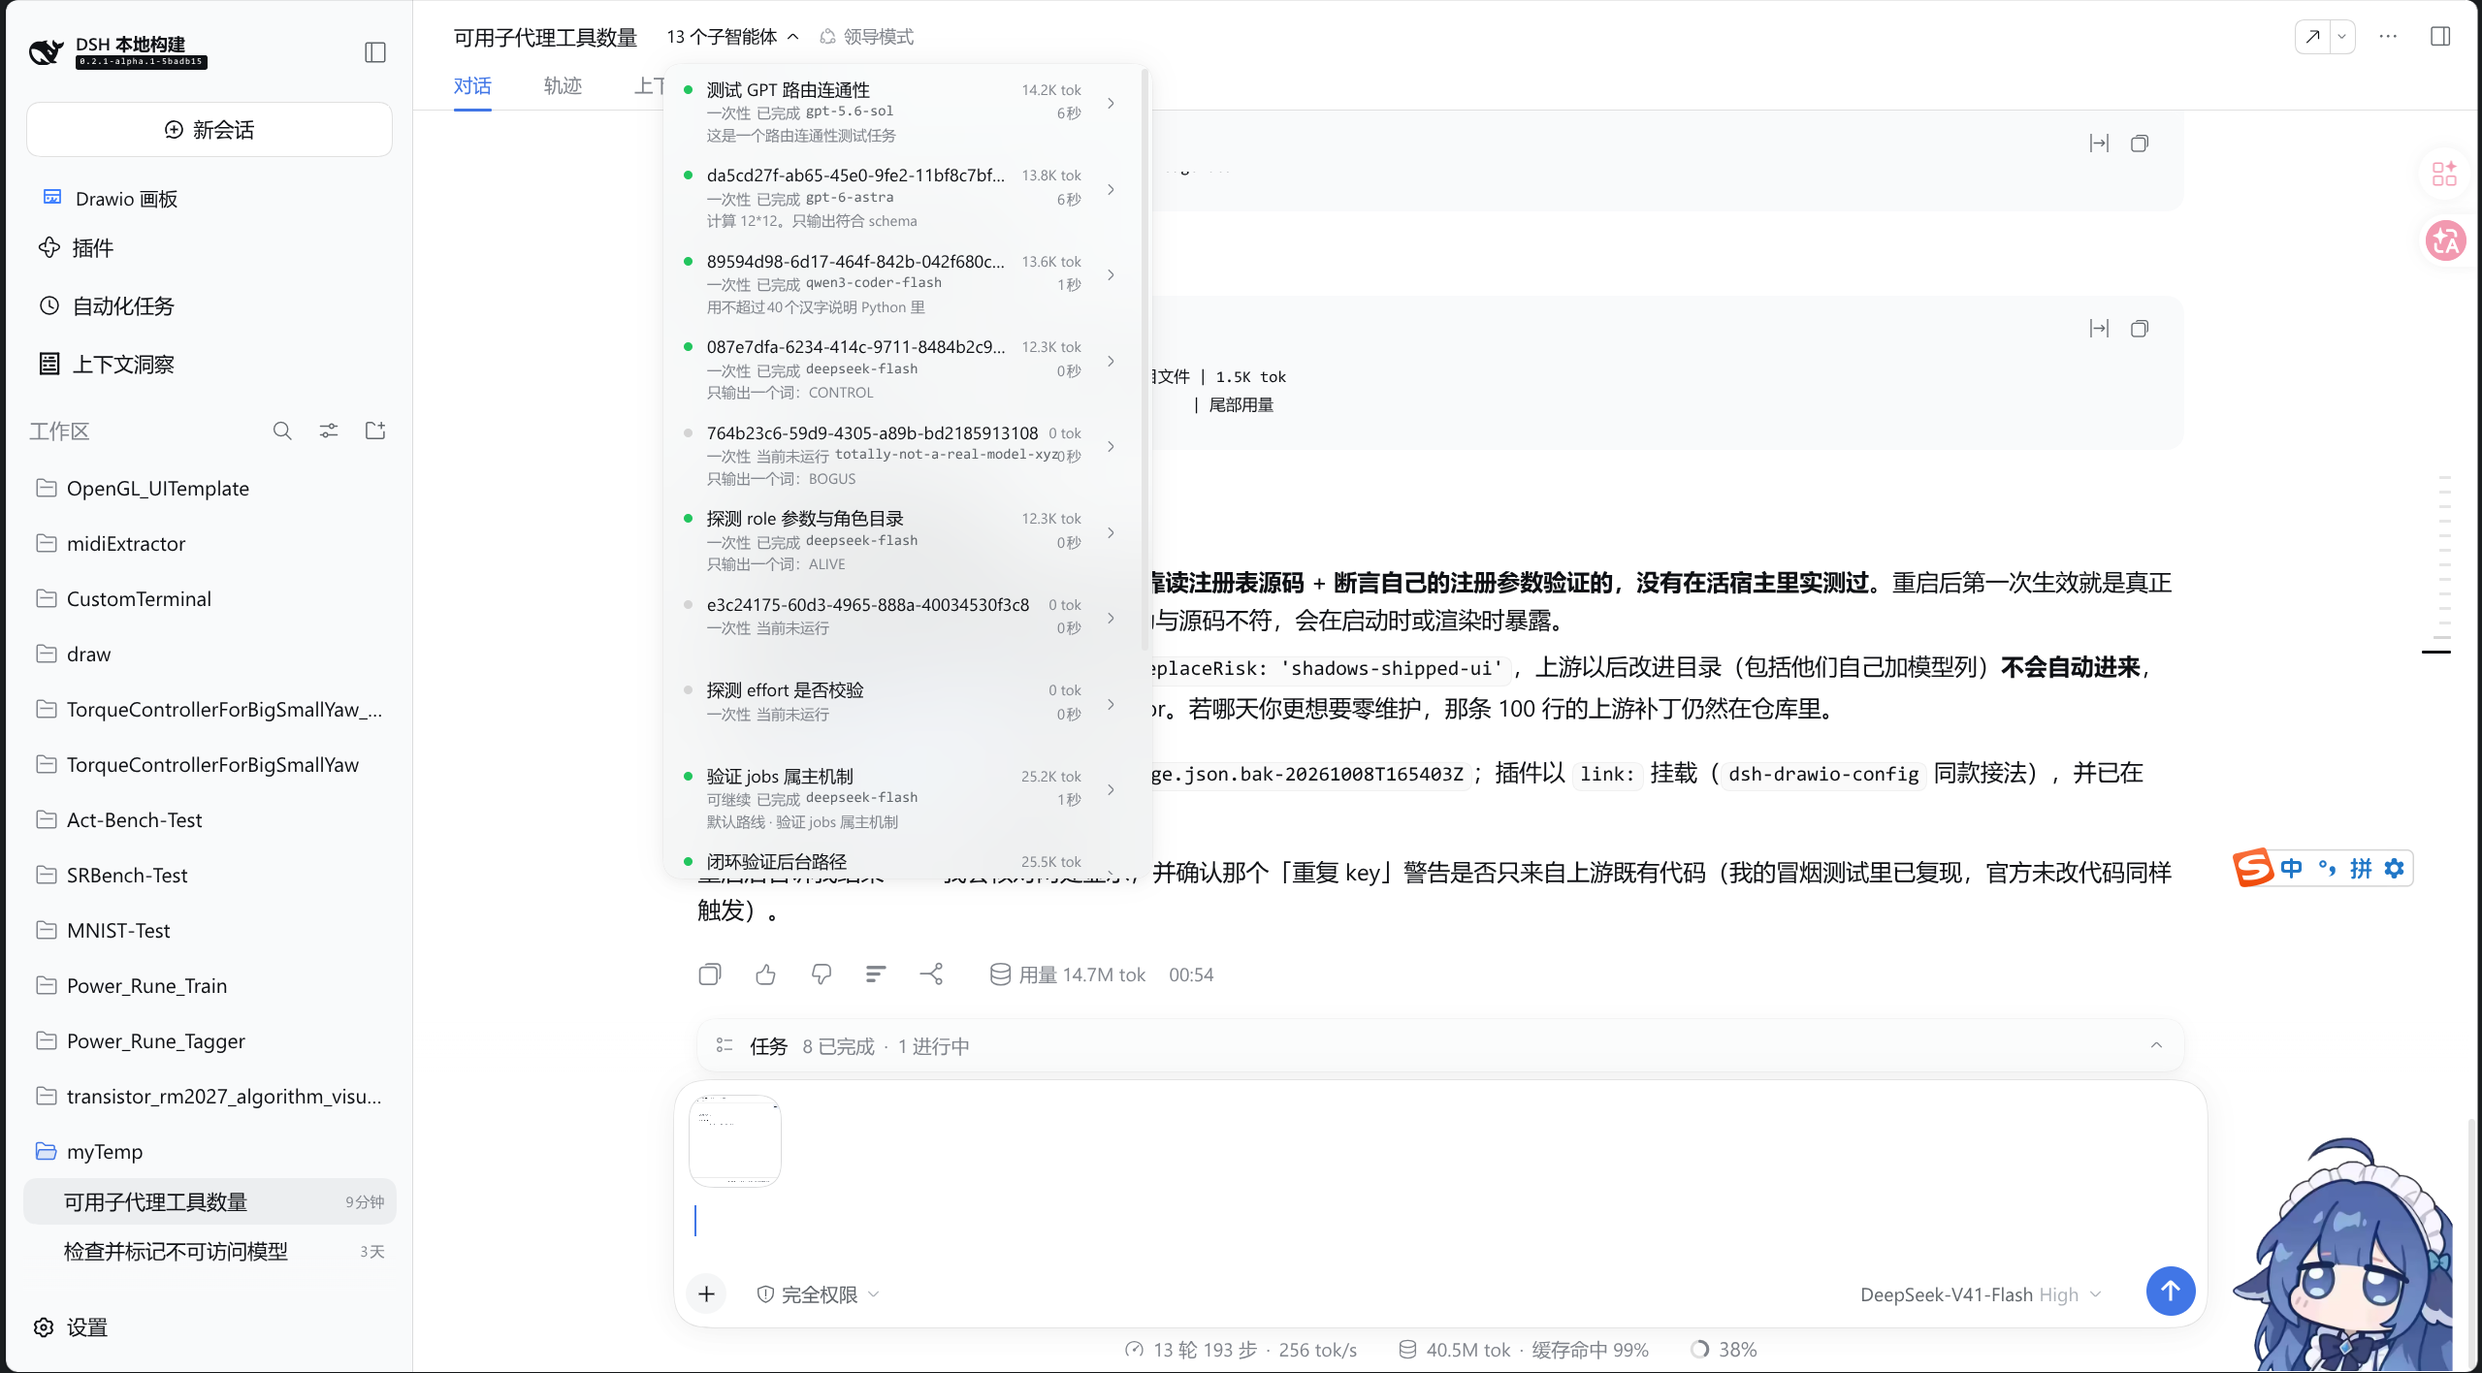
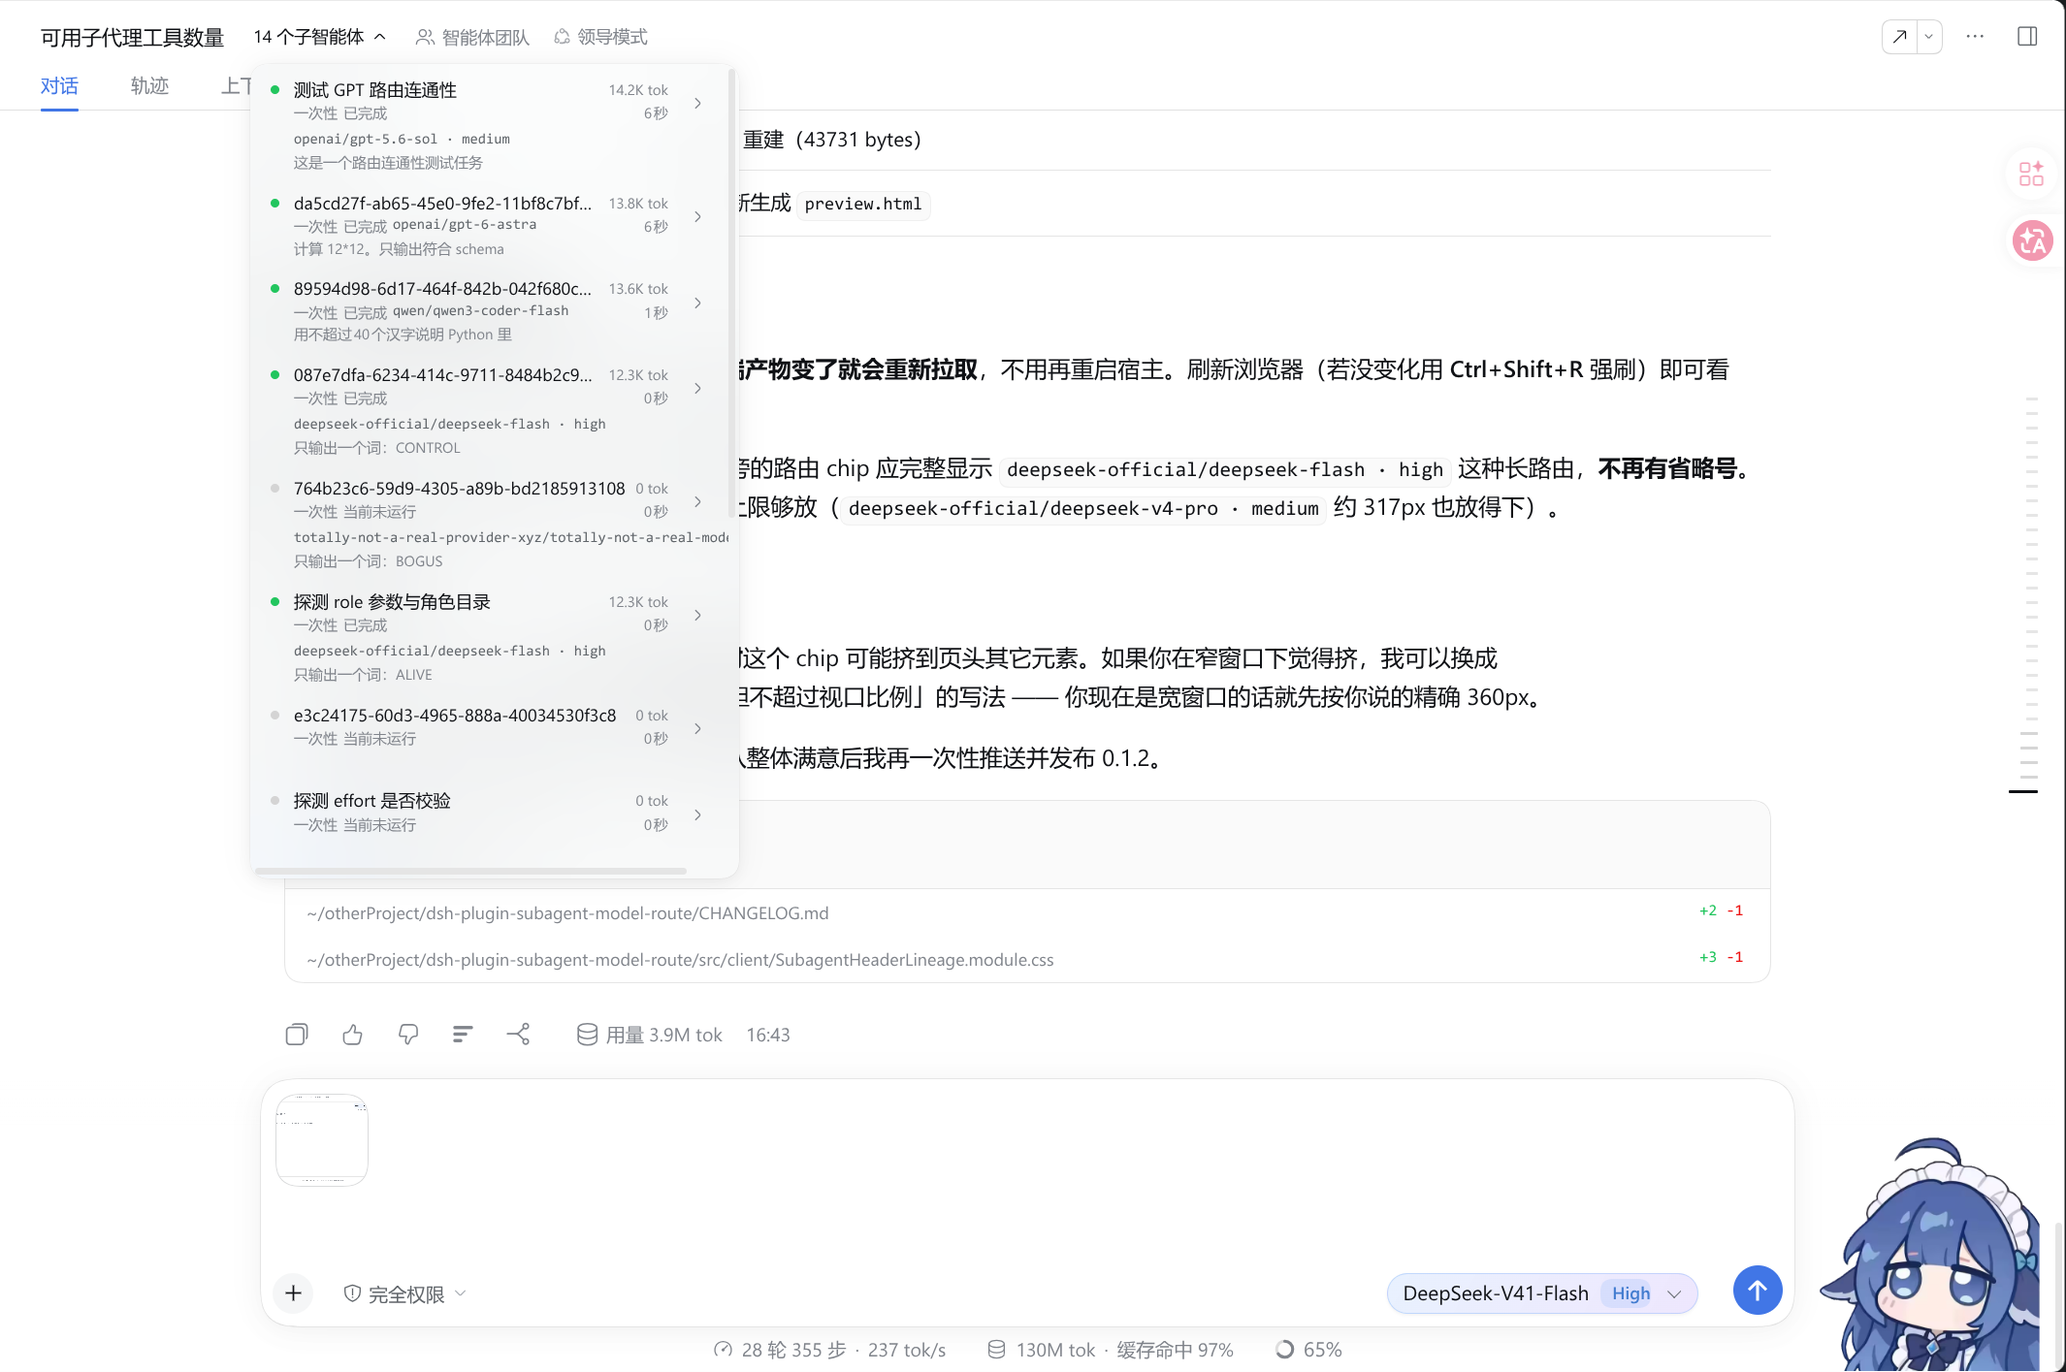
feat: show provider and reasoning effort in both readouts
The catalog badge and the child-session header chip now render `provider/model · reasoningEffort` instead of the bare model id, so the provider and the effort are legible without hovering. The badge line wraps for long routes and the header chip's cap doubles (180px to 360px) so the longer route is not ellipsized.

Adds scripts/preview.mjs (`npm run preview`) and refreshes both README screenshots for the new rendering.

diff --git a/src/client/SubagentHeaderLineage.tsx b/src/client/SubagentHeaderLineage.tsx
@@ -373,7 +373,7 @@ function CatalogRows({
                     <span className={css.badge}>{mode}</span>
                     <span className={css.badge}>{activity}</span>
                     {model !== undefined && (
-                      <span className={`${css.badge} ${css.model}`} title={modelTitle}>{model.model}</span>
+                      <span className={`${css.badge} ${css.model}`} title={modelTitle}>{modelRoute(model)}</span>
                     )}
                   </span>
                   <span className={css.summary}>{secondary}</span>
@@ -847,7 +847,7 @@ export function SubagentHeaderLineage({
         />
       )}
       {model !== undefined && (
-        <span className={css.sessionModel} title={modelTitle}>{model.model}</span>
+        <span className={css.sessionModel} title={modelTitle}>{modelRoute(model)}</span>
       )}
     </>
   )

diff --git a/src/client/SubagentHeaderLineage.module.css b/src/client/SubagentHeaderLineage.module.css
@@ -244,6 +244,9 @@
 .badges {
   display: inline-flex;
   flex: none;
+  /* A long `provider/model · effort` badge wraps to its own line instead of
+     being clipped: the badge line owns its width and the row grows for it. */
+  flex-wrap: wrap;
   align-items: center;
   gap: 4px;
   white-space: nowrap;
@@ -298,7 +301,9 @@
 .sessionModel {
   display: inline-block;
   flex: none;
-  max-width: 180px;
+  /* Wide enough for the whole `provider/model · effort` route: 180px clipped the
+     longer providers once the readout stopped being the bare model id. */
+  max-width: 360px;
   overflow: hidden;
   text-overflow: ellipsis;
   white-space: nowrap;

diff --git a/README.zh.md b/README.zh.md
@@ -4,13 +4,13 @@
 
 给每个子代理标注它**实际运行使用的模型路由**，覆盖你查看子代理时的两个位置：父会话的目录列表，以及子代理会话自身的页头。
 
-![目录列表：每行依次堆叠名称、mode/活动状态/模型徽标行、持久化标题](docs/effect-catalog-rows.png)
+![目录列表：每行依次堆叠名称、mode/活动状态/路由徽标行、持久化标题](docs/effect-catalog-rows.png)
 
-*父会话的目录列表：13 个子代理，每行分三行堆叠 —— 名称、`mode · 活动状态 · 路由` 徽标行、以及下方的持久化标题。图中显示的路由（`gpt-5.6-sol`、`gpt-6-astra`、`qwen3-coder-flash`、`deepseek-flash`）就是那些委派**实际跑在**的模型。*
+*父会话的目录列表：14 个子代理，每行分三行堆叠 —— 名称、`mode · 活动状态 · 路由` 徽标行、以及下方的持久化标题。徽标会写出完整路由（`openai/gpt-5.6-sol · medium`、`openai/gpt-6-astra`、`qwen/qwen3-coder-flash`、`deepseek-official/deepseek-flash · high`），即那些委派**实际跑在**的模型。*
 
 ![子代理会话页头：模型路由渲染在面包屑切换器旁](docs/effect-child-header.png)
 
-*打开一个子代理会话：路由（`deepseek-flash`）显示在谱系面包屑旁、页头之中，位于只读的一次性子智能体提示之上。*
+*打开一个子代理会话：完整路由（`deepseek-official/deepseek-flash · high`）显示在谱系面包屑旁、页头之中，位于只读的一次性子智能体提示之上。*
 
 ## 效果
 
@@ -18,16 +18,16 @@
 
 | 面 | 改前 | 改后 |
 | --- | --- | --- |
-| 父会话目录行 | `name`，然后同一行显示 `title · 一次性 · 正在运行` | 三行：`name` / `一次性` `正在运行` `gpt-5.6-sol` / `title` |
-| 子代理会话页头 | 只有面包屑切换器 | 面包屑切换器 + 模型路由 |
+| 父会话目录行 | `name`，然后同一行显示 `title · 一次性 · 正在运行` | 三行：`name` / `一次性` `正在运行` `openai/gpt-5.6-sol · medium` / `title` |
+| 子代理会话页头 | 只有面包屑切换器 | 面包屑切换器 + `openai/gpt-5.6-sol · medium` |
 
-从未发出过请求的子代理**不显示**徽标。悬停徽标可看到完整的 `provider/model · reasoningEffort`，行的无障碍名称也会带上路由。
+从未发出过请求的子代理**不显示**徽标。徽标会写出完整路由 —— `provider/model · reasoningEffort`，因此提供方与推理强度无需悬停即可读到；路由过长放不下时整体换到下一行，而不是被裁切。悬停提示会在标签下重复该路由，行的无障碍名称也会带上它。
 
 ## 把「效果」说成「后果」
 
 装之前值得先读。这个插件是刻意**遮蔽官方 UI** 的，这有代价：
 
-1. **行变高。** 44px → 59px。下拉菜单高度上限为 `min(560px, 100vh - 140px)`，因此滚动前可见行数从约 12 行降到约 9 行。
+1. **行变高。** 44px → 59px。下拉菜单高度上限为 `min(560px, 100vh - 140px)`，因此滚动前可见行数从约 12 行降到约 9 行。若某条路由长到需要换行，该行会变成 74px，可见行数进一步减少。
 2. **你 fork 了官方 UI 的这一小块。** 该座位的契约标记为 `replaceRisk: 'shadows-shipped-ui'`。官方对这两个 occupant 的任何改进 —— **包括 DeepSeek 自己以后加上模型列** —— **都不会进到你这里**；必须重新 vendor 并重新施加那两处修改（见 [PATCH-RECORD.md](./PATCH-RECORD.md)）。
 3. **这一区域里官方 UI 的 bug 从此归你。** 渲染器是官方版本的逐字拷贝（连官方那个「重复 key」的 React 警告也一并继承）。
 4. **样式表会被注入两份。** vendored 的 CSS module 是官方样式表的副本，页面里会同时存在。体量很小，且哈希类名因文件内容不同而不同，不会冲突。
@@ -80,10 +80,11 @@ dsh plugin --profile web add ./dsh-plugin-subagent-model-route   # 从本地 che
 本目录的 `node_modules/` 是**仅供本机开发**的软链 shim，指向一个 harness checkout（宿主的 `react`/`react-dom`/`@deepseek-ai/*`，以及 monorepo 的工具链），因为 `@deepseek-ai/*` 在 npm 上只发布了 `0.0.1-rc.1` 占位版。在正常环境里按 `devDependencies` 列出的版本执行 `npm install` 即可替代它。
 
 ```bash
-npm run check      # 类型检查 -> 构建 -> 无头冒烟（15 项）
+npm run check      # 类型检查 -> 构建 -> 无头冒烟（16 项）
 npm run build      # tsdown：lib/index.js（宿主半包）+ lib/client/index.js（闭包工厂）
 npm run watch
 npm run smoke      # 在 jsdom 下真实渲染两个被接管的座位
+npm run preview    # 生成 preview.html：同一份渲染 + 主题 CSS，供浏览器查看
 ```
 
 [`tsdown.config.ts`](./tsdown.config.ts) 里的门外构建复刻了 monorepo 自己的 `clientBundle()` 预设所强制的两条契约 —— `window.__ModuleLoader__.load({ id, factory })` 交接格式，以及把 `*.module.css` 编译成哈希类名映射并注入带标记 `<style>` 的 lightningcss 流程 —— 因为那个预设靠 glob monorepo 目录来定位包，**无法构建 monorepo 之外的包**。构建**只需要 `tsdown` + `lightningcss`**：宿主提供的包始终保持 external、永不解析，这正是让 git 安装不会因「未发布的 `@deepseek-ai/*` 版本」而失败的原因。

diff --git a/README.md b/README.md
@@ -5,17 +5,17 @@ English | [中文](README.zh.md)
 Annotate every subagent with the **model route it actually ran on**, in both places you look
 at a subagent: the parent's catalog list and the child session's own header.
 
-![Catalog rows: each row stacks the name, a mode/activity/model badge line, and the durable title](docs/effect-catalog-rows.png)
+![Catalog rows: each row stacks the name, a mode/activity/route badge line, and the durable title](docs/effect-catalog-rows.png)
 
-*The parent's catalog: thirteen subagents, each row stacking the name, a `mode · activity ·
-route` badge line, and the durable title below it. The routes shown (`gpt-5.6-sol`,
-`gpt-6-astra`, `qwen3-coder-flash`, `deepseek-flash`) are the ones those delegations actually
-ran on.*
+*The parent's catalog: fourteen subagents, each row stacking the name, a `mode · activity ·
+route` badge line, and the durable title below it. The badge spells out the whole route —
+`openai/gpt-5.6-sol · medium`, `openai/gpt-6-astra`, `qwen/qwen3-coder-flash`,
+`deepseek-official/deepseek-flash · high` — exactly as those delegations ran it.*
 
 ![Child session header: the model route renders beside the breadcrumb switcher](docs/effect-child-header.png)
 
-*Opening a child session: the route (`deepseek-flash`) sits beside the lineage breadcrumb, in
-the header, above the read-only one-shot composer notice.*
+*Opening a child session: the full route (`deepseek-official/deepseek-flash · high`) sits
+beside the lineage breadcrumb, in the header, above the read-only one-shot composer notice.*
 
 ## Effect
 
@@ -23,11 +23,14 @@ Two surfaces change, and nothing else:
 
 | surface | before | after |
 | --- | --- | --- |
-| Parent catalog row | `name`, then `title · one-shot · running` on one line | three lines: `name` / `one-shot` `running` `gpt-5.6-sol` / `title` |
-| Child session header | breadcrumb switcher only | breadcrumb switcher + the route |
+| Parent catalog row | `name`, then `title · one-shot · running` on one line | three lines: `name` / `one-shot` `running` `openai/gpt-5.6-sol · medium` / `title` |
+| Child session header | breadcrumb switcher only | breadcrumb switcher + `openai/gpt-5.6-sol · medium` |
 
-A row whose child never issued a request shows **no** badge. Hovering a badge gives the full
-`provider/model · reasoningEffort`, and the row's accessible name carries the route too.
+A row whose child never issued a request shows **no** badge. The badge spells out the whole
+route — `provider/model · reasoningEffort` — so the provider and the reasoning effort are
+readable without hovering; a route too long for the badge line wraps onto its own line instead
+of being clipped. The tooltip repeats the route under its label, and the row's accessible name
+carries it too.
 
 ## Effect, expressed as consequences
 
@@ -35,7 +38,8 @@ Worth reading before installing. This plugin deliberately **shadows shipped UI**
 a price:
 
 1. **Rows get taller.** 44px → 59px, so the dropdown, capped at
-   `min(560px, 100vh - 140px)`, now shows roughly 9 rows instead of 12 before it scrolls.
+   `min(560px, 100vh - 140px)`, now shows roughly 9 rows instead of 12 before it scrolls. A
+   route long enough to wrap the badge line pushes a row to 74px and shows fewer still.
 2. **You fork that region of the shipped UI.** The catalog contract marks this seat
    `replaceRisk: 'shadows-shipped-ui'`. Upstream improvements to those two occupants —
    including DeepSeek adding a model column themselves — **will not reach you**; you have to
@@ -112,10 +116,11 @@ host's own `react`/`react-dom`/`@deepseek-ai/*`, plus the monorepo's tooling), b
 `npm install` against the versions listed in `devDependencies` replaces it.
 
 ```bash
-npm run check      # typecheck -> build -> headless smoke (15 checks)
+npm run check      # typecheck -> build -> headless smoke (16 checks)
 npm run build      # tsdown: lib/index.js (host half) + lib/client/index.js (closure factory)
 npm run watch
 npm run smoke      # renders both seized seats under jsdom
+npm run preview    # writes preview.html: the same render, with the theme CSS, for a browser
 ```
 
 The out-of-tree build in [`tsdown.config.ts`](./tsdown.config.ts) restates the two contracts the

diff --git a/PATCH-RECORD.md b/PATCH-RECORD.md
@@ -27,11 +27,11 @@
       title · 一次性 · 已完成              ← 长 title 会把后面的内容挤成省略号
 
 改后： 名称
-      一次性  已完成  gpt-5.6-sol          ← 徽标行
-      只输出一个词：CONTINUABLE-OK…         ← title 独占一行
+      一次性  已完成  openai/gpt-6-astra · high   ← 徽标行：mode · 活动状态 · provider/model · effort
+      只输出一个词：CONTINUABLE-OK…                 ← title 独占一行
 ```
 
-行高 44px → 59px；下拉菜单 `max-height: min(560px, 100vh-140px)` 可滚动。
+行高 44px → 59px；路由长到需要换行时该行变 74px；下拉菜单 `max-height: min(560px, 100vh-140px)` 可滚动。
 
 ### 2. 子代理会话页头：面包屑旁显示模型
 
@@ -51,8 +51,8 @@ usedModel(selection) = selection.lastUsed ?? selection.next
 
 | 文件 | 改动 |
 | --- | --- |
-| `src/client/SubagentHeaderLineage.tsx` | 新增 `SessionModelRef` 类型与 `usedModel()` / `modelRoute()` 纯函数；`CatalogRows` 计算路由、把模型写入 `aria-label`、把 mode/活动状态/模型渲染为徽标行、title 独占摘要行；`SubagentHeaderLineage` 增加同一读数 |
-| `src/client/SubagentHeaderLineage.module.css` | 新增 `.badges` / `.badge` / `.model`（代码字体 + 次级色）/ `.sessionModel`；`.label` 加 `flex: none; min-width: 0`；`.summary` 加 `min-height: 15px`（无 title 时也保住行高） |
+| `src/client/SubagentHeaderLineage.tsx` | 新增 `SessionModelRef` 类型与 `usedModel()` / `modelRoute()` 纯函数；`CatalogRows` 计算路由、把路由写入 `aria-label`、把 mode/活动状态/**`provider/model · effort`** 渲染为徽标行、title 独占摘要行；`SubagentHeaderLineage` 在同一位置渲染同一读数 |
+| `src/client/SubagentHeaderLineage.module.css` | 新增 `.badges`（`flex-wrap: wrap`，长路由整体换行而非被裁）/ `.badge` / `.model`（代码字体 + 次级色）/ `.sessionModel`；`.label` 加 `flex: none; min-width: 0`；`.summary` 加 `min-height: 15px`（无 title 时也保住行高） |
 | `src/client/locales.ts` | zh/en 各加一个键 `model.title`（`实际使用模型：{value}` / `Model used: {value}`） |
 
 ## 仅属于上游补丁的部分（插件不需要）

diff --git a/CHANGELOG.md b/CHANGELOG.md
@@ -1,5 +1,17 @@
 # Changelog
 
+## 0.1.2
+
+Show the whole route in both surfaces. The catalog badge and the child-session header chip now
+read `provider/model · reasoningEffort` instead of the bare model id, so the provider and the
+effort are legible without hovering. A route long enough to outgrow the badge line wraps onto
+its own line rather than being clipped.
+
+- `SubagentHeaderLineage.tsx`: both readouts render `modelRoute(model)`.
+- `SubagentHeaderLineage.module.css`: the badge line wraps (`flex-wrap`) for long routes, and
+  the child-session chip's cap doubles (180px → 360px) so the longer route is not ellipsized.
+- The tooltip still repeats the route under its label.
+
 ## 0.1.1
 
 Fix a bare `npm install dsh-plugin-subagent-model-route` failure. `react` and `react-dom`
